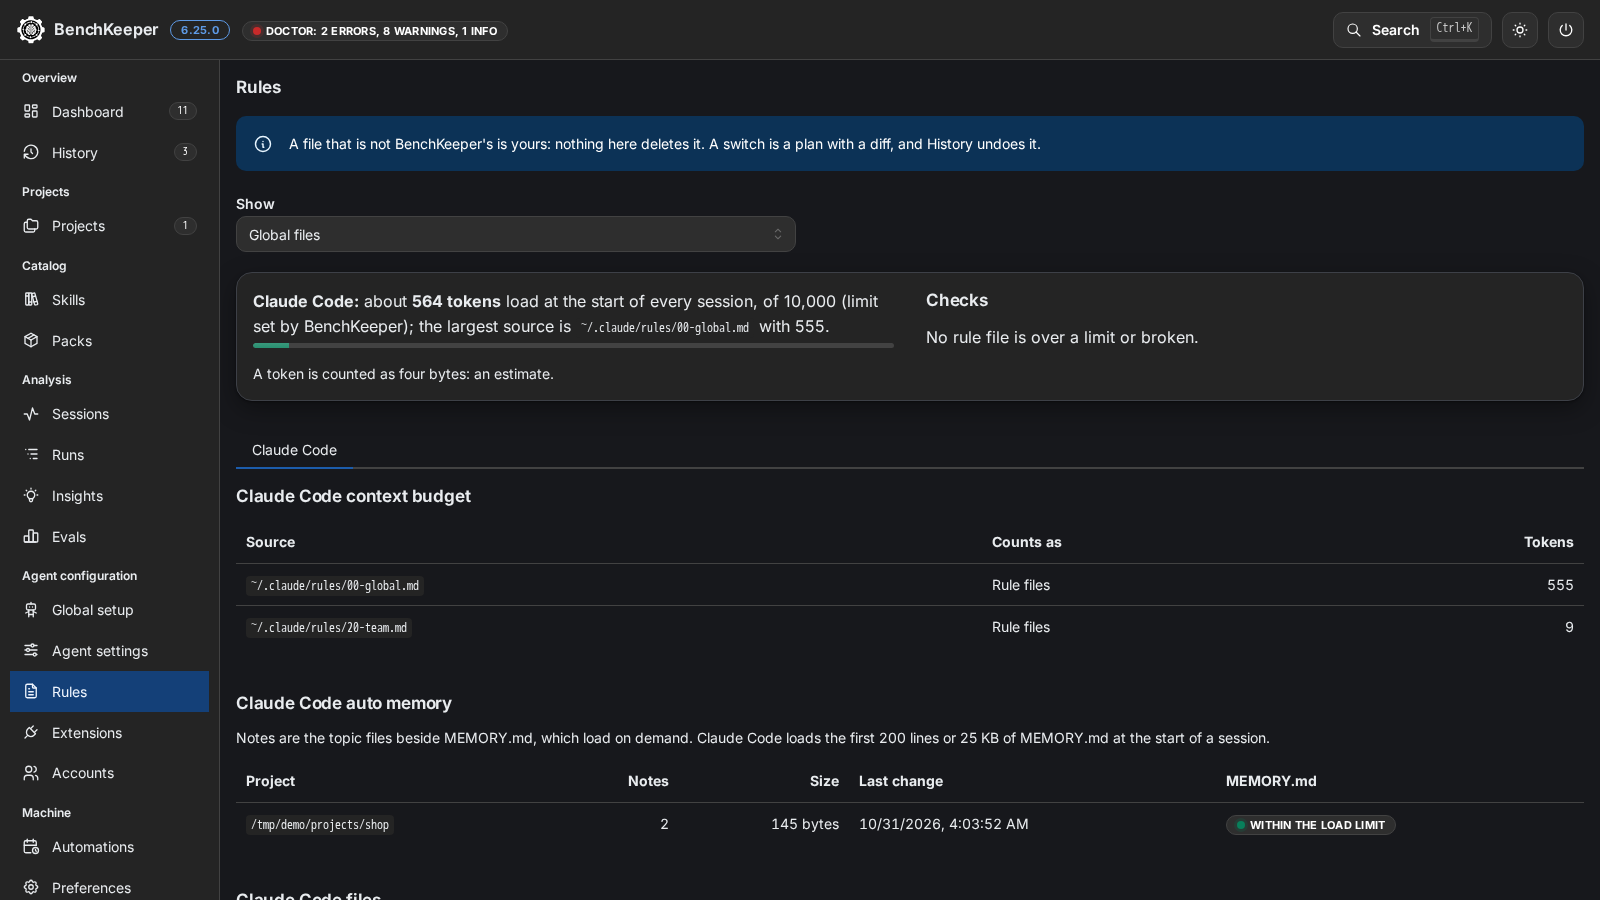
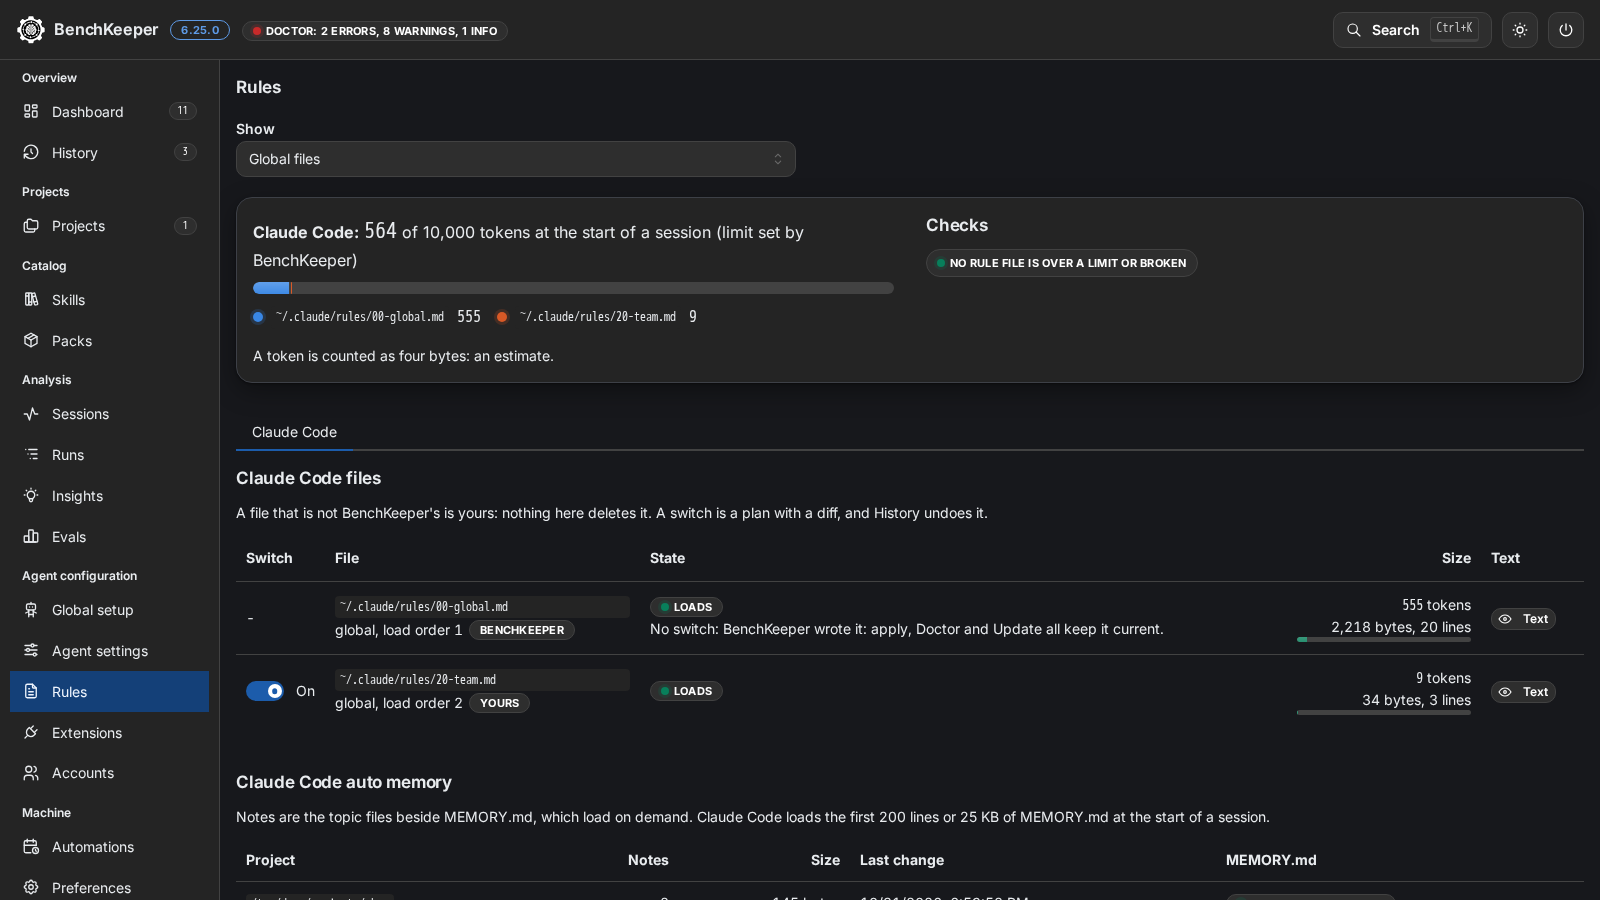
feat(app): show the Rules context budget as one bar above switchable file rows (#904)
* feat(app): show the Rules context budget as one bar above switchable file rows

The Rules page opens with one panel: the token count against the limit, one bar split by source (the five largest, then the rest), a legend, and the Checks result as a chip. It replaces the budget paragraph, the context budget table and the info banner. Each file is a row with its switch, path, load state and a token bar; the auto memory table moves below the files. Page height at 1280 px: 1390 px before, 1136 px after; at 390 px: 1650 px before, 1428 px after.

* fix(app): keep the budget bar's ARIA value in range and say how much of a Codex source list may not load

* fix(app): keep the single bar and hide the legend when an agent has no sources

diff --git a/app/ui/rules.jsx b/app/ui/rules.jsx
@@ -7,13 +7,44 @@ import { when } from './run.jsx';
 import { Dot, Loading, Note, icon, useApi } from './shell.jsx';
 
 const GLOBAL = 'global';
-const KINDS = { rules: 'Rule files', imports: 'Imports', skills: 'Skill descriptions', memory: 'Auto memory' };
 const LOAD = { always: ['teal', 'loads'], 'path-scoped': ['blue', 'loads for matching files'], off: ['gray', 'off'], shadowed: ['yellow', 'not read'] };
 const number = (n) => n.toLocaleString('en-US');
 
-// A value against its limit, with who sets the limit.
-const Limit = ({ label, value, max, unit, by }) => (
-  <Progress size="sm" value={Math.min(100, (value / max) * 100)} color={value > max ? 'red' : 'teal'} aria-label={`${label}: ${number(value)} of ${number(max)} ${unit}, limit set by ${by}`} />
+// The five largest sources of a budget and the rest as one, each with the color of its segment (the board's series).
+const SERIES = ['s1', 's2', 's3', 's4', 's5'];
+const partsOf = (items) => {
+  const sorted = items.filter((i) => i.tokens > 0).sort((a, b) => b.tokens - a.tokens);
+  const top = sorted.slice(0, SERIES.length).map((i, n) => ({ label: i.label, tokens: i.tokens, color: `var(--bk-${SERIES[n]})` }));
+  const rest = sorted.slice(SERIES.length);
+  return rest.length ? [...top, { label: `${rest.length} more sources`, tokens: rest.reduce((n, i) => n + i.tokens, 0), color: 'var(--bk-other)' }] : top;
+};
+
+// A value against its limit, with who sets the limit; with parts, one segment per source and a tick at the limit when it is passed.
+const Limit = ({ label, value, max, unit, by, parts }) => {
+  const name = `${label}: ${number(value)} of ${number(max)} ${unit}, limit set by ${by}`;
+  if (!parts) return <Progress size="sm" value={Math.min(100, (value / max) * 100)} color={value > max ? 'red' : 'teal'} aria-label={name} />;
+  const scale = Math.max(max, parts.reduce((n, p) => n + p.tokens, 0));
+  return (
+    <Progress.Root size="lg" role="progressbar" aria-label={name} aria-valuemin={0} aria-valuemax={max} aria-valuenow={Math.min(value, max)} aria-valuetext={`${number(value)} of ${number(max)} ${unit}`} styles={{ root: { gap: 2 } }}>
+      {parts.map((p) => <Progress.Section key={p.label} value={(p.tokens / scale) * 100} color={p.color} withAria={false} />)}
+      {scale > max && <span aria-hidden style={{ position: 'absolute', top: 0, bottom: 0, left: `${(max / scale) * 100}%`, width: 2, background: 'var(--bk-ink)' }} />}
+    </Progress.Root>
+  );
+};
+
+// What each segment of the bar is, largest first.
+const Legend = ({ parts, name }) => (
+  <List listStyleType="none" aria-label={`${name} sources`} styles={{ root: { display: 'flex', flexWrap: 'wrap', gap: '4px 16px' } }}>
+    {parts.map((p) => (
+      <List.Item key={p.label}>
+        <Group gap={8} wrap="nowrap">
+          <span aria-hidden className="bk-dot" style={{ display: 'inline-block', width: 10, height: 10, borderRadius: '50%', background: 'currentColor', color: p.color, flex: 'none' }} />
+          <Code style={{ overflowWrap: 'anywhere' }}>{p.label}</Code>
+          <span className="bk-num">{number(p.tokens)}</span>
+        </Group>
+      </List.Item>
+    ))}
+  </List>
 );
 
 // A switch request: the plan comes back through onPlan, a refusal shows as an error.
@@ -38,7 +69,7 @@ function useSwitch(dir, onPlan) {
 // locked: an apply runs, and a new plan would drop its view.
 function Findings({ findings, dir, onPlan, locked }) {
   const { busy, error, toggle } = useSwitch(dir, onPlan);
-  if (!findings.length) return <Text>No rule file is over a limit or broken.</Text>;
+  if (!findings.length) return <Badge variant="default" h="auto" py={4} styles={{ label: { whiteSpace: 'normal' } }} leftSection={<Dot color="teal" />}>No rule file is over a limit or broken</Badge>;
   return (
     <Stack gap="sm">
       {error && <Note color="red" title="Not planned">{error}</Note>}
@@ -139,19 +170,26 @@ function Preview({ row, dir, onClose, onSaved }) {
   );
 }
 
-// The top strip: per agent what loads at the start of every session against BenchKeeper's limit and the largest source,
-// beside the checks on a wide screen.
+// The top strip: per agent what loads at the start of every session against BenchKeeper's limit, as one bar split by source
+// with its legend, beside the checks on a wide screen.
 const Summary = ({ agents, children }) => (
   <Paper withBorder p="md" component="section" aria-label="Summary">
     <SimpleGrid cols={{ base: 1, lg: 2 }} spacing="xl">
       <Stack gap="md">
-        {agents.map(({ id, name, budget: { total, largest, over, threshold, limits: [start] } }) => (
-          <Stack key={id} gap={4}>
-            <Text><Text span fw={700}>{name}:</Text> about <Text span fw={700}>{number(total)} tokens</Text> load at the start of every session, of {number(start.max)} (limit set by {start.by}){largest ? <>; the largest source is <Code>{largest.label}</Code> with {number(largest.tokens)}</> : null}.</Text>
-            <Limit {...start} />
-            {over && <Note color="yellow">More than {number(threshold)} tokens (BenchKeeper's own limit, not the agent's): every turn pays for them. Turn off a file, split a long one into path-scoped rules, or shorten the largest source.</Note>}
-          </Stack>
-        ))}
+        {agents.map(({ id, name, budget: { total, items, over, threshold, limits: [start] } }) => {
+          const parts = partsOf(items);
+          // Codex counts only what fits its size limit; the sources stay as found.
+          const unloaded = items.reduce((n, i) => n + i.tokens, 0) - total;
+          return (
+            <Stack key={id} gap="xs">
+              <Text><Text span fw={700}>{name}:</Text> <Text span fw={700} fz={22} className="bk-num">{number(total)}</Text> of {number(start.max)} tokens at the start of a session (limit set by {start.by})</Text>
+              <Limit {...start} parts={parts.length ? parts : undefined} />
+              {parts.length > 0 && <Legend parts={parts} name={name} />}
+              {unloaded > 0 && <Text size="sm">About {number(unloaded)} tokens of these sources may not load: {name} stops adding files at its size limit.</Text>}
+              {over && <Note color="yellow">More than {number(threshold)} tokens (BenchKeeper's own limit, not the agent's): every turn pays for them. Turn off a file, split a long one into path-scoped rules, or shorten the largest source.</Note>}
+            </Stack>
+          );
+        })}
         <Text size="sm">A token is counted as four bytes: an estimate.</Text>
       </Stack>
       {children}
@@ -159,7 +197,8 @@ const Summary = ({ agents, children }) => (
   </Paper>
 );
 
-// The rest of an agent's budget: the other limits, what loads on demand and the tokens per source.
+// The rest of an agent's budget: the other limits and what loads on demand; the sources are the bar and the file rows.
+const hasBudget = (b) => b.onDemand > 0 || b.notes.length > 0 || b.limits.length > 1;
 function Budget({ budget }) {
   return (
     <Stack gap="xs">
@@ -171,14 +210,6 @@ function Budget({ budget }) {
           <Limit {...l} />
         </Stack>
       ))}
-      <Table.ScrollContainer minWidth={480} scrollAreaProps={{ viewportProps: { tabIndex: 0, role: 'region', 'aria-label': 'Context budget, scrollable' } }}>
-        <Table aria-label="Context budget" verticalSpacing="xs">
-          <Table.Thead><Table.Tr><Table.Th>Source</Table.Th><Table.Th>Counts as</Table.Th><Table.Th ta="right">Tokens</Table.Th></Table.Tr></Table.Thead>
-          <Table.Tbody>
-            {budget.items.map((i) => <Table.Tr key={`${i.kind}-${i.label}`}><Table.Td><Code>{i.label}</Code></Table.Td><Table.Td>{KINDS[i.kind]}</Table.Td><Table.Td ta="right">{number(i.tokens)}</Table.Td></Table.Tr>)}
-          </Table.Tbody>
-        </Table>
-      </Table.ScrollContainer>
     </Stack>
   );
 }
@@ -211,26 +242,28 @@ function Files({ agent, dir, limit, onPlan, onPreview, pending, onClear, locked 
   return (
     <Stack gap="sm">
       {error && <Note color="red" title="Not planned">{error}</Note>}
-      <Table.ScrollContainer minWidth={760} scrollAreaProps={{ viewportProps: { tabIndex: 0, role: 'region', 'aria-label': `${agent.name} instruction files, scrollable` } }}>
+      <Text size="sm">A file that is not BenchKeeper's is yours: nothing here deletes it. A switch is a plan with a diff, and History undoes it.</Text>
+      <Table.ScrollContainer minWidth={700} scrollAreaProps={{ viewportProps: { tabIndex: 0, role: 'region', 'aria-label': `${agent.name} instruction files, scrollable` } }}>
         <Table aria-label={`${agent.name} instruction files`} verticalSpacing="sm">
-          <Table.Thead><Table.Tr><Table.Th>Load order</Table.Th><Table.Th>File</Table.Th><Table.Th>Owner</Table.Th><Table.Th ta="right">Size</Table.Th><Table.Th>State</Table.Th><Table.Th>Switch</Table.Th></Table.Tr></Table.Thead>
+          <Table.Thead><Table.Tr><Table.Th>Switch</Table.Th><Table.Th>File</Table.Th><Table.Th>State</Table.Th><Table.Th ta="right">Size</Table.Th><Table.Th>Text</Table.Th></Table.Tr></Table.Thead>
           <Table.Tbody>
             {agent.rows.map((r) => { const wait = pending?.row.path === r.path, off = locked || busy === r.path; return (
               <Table.Tr key={r.path}>
-                <Table.Td>{r.order ?? '-'}</Table.Td>
-                <Table.Td><Stack gap={2}><Code style={{ overflowWrap: 'anywhere' }}>{r.shown}</Code><Text size="sm">{r.scope}</Text></Stack></Table.Td>
-                <Table.Td><Badge variant="default" miw="max-content">{r.owner}</Badge></Table.Td>
-                <Table.Td ta="right">{number(r.tokens)} tokens<Text size="sm">{number(r.bytes)} bytes{r.lines ? `, ${r.lines} lines` : ''}</Text><Limit label={r.shown} value={r.tokens} max={limit} unit="tokens" by="BenchKeeper" /></Table.Td>
-                <Table.Td><Stack gap={2}><Loads row={r} />{r.by && <Text size="sm">{r.by}</Text>}</Stack></Table.Td>
-                <Table.Td miw={220}>
-                  <Group gap="xs" wrap="nowrap" align="flex-start">
-                    {r.switch.by
-                      ? <PlanSwitch name={`Load ${r.shown} in ${agent.name}`} hideName on={r.load !== 'off'} pending={wait ? pending : null} off={off}
-                        onAsk={(on) => toggle(agent.id, r, on, agent.name)} onClear={onClear} />
-                      : <Text size="sm">No switch: {r.switch.why}.</Text>}
-                    <Button size="compact-xs" variant="default" leftSection={icon(IconEye)} aria-label={`Show text of ${r.shown}`} onClick={() => onPreview(r)}>Text</Button>
-                  </Group>
+                <Table.Td w={80}>
+                  {r.switch.by
+                    ? <PlanSwitch name={`Load ${r.shown} in ${agent.name}`} hideName on={r.load !== 'off'} pending={wait ? pending : null} off={off}
+                      onAsk={(on) => toggle(agent.id, r, on, agent.name)} onClear={onClear} />
+                    : '-'}
                 </Table.Td>
+                <Table.Td>
+                  <Stack gap={2}>
+                    <Code style={{ overflowWrap: 'anywhere' }}>{r.shown}</Code>
+                    <Group gap={6}><Text size="sm">{r.scope}{r.order != null ? `, load order ${r.order}` : ''}</Text><Badge variant="default" miw="max-content">{r.owner}</Badge></Group>
+                  </Stack>
+                </Table.Td>
+                <Table.Td><Stack gap={2}><Loads row={r} />{r.by && <Text size="sm">{r.by}</Text>}{!r.switch.by && <Text size="sm">No switch: {r.switch.why}.</Text>}</Stack></Table.Td>
+                <Table.Td ta="right"><span className="bk-num">{number(r.tokens)}</span> tokens<Text size="sm">{number(r.bytes)} bytes{r.lines ? `, ${r.lines} lines` : ''}</Text><Limit label={r.shown} value={r.tokens} max={limit} unit="tokens" by="BenchKeeper" /></Table.Td>
+                <Table.Td><Button size="compact-xs" variant="default" leftSection={icon(IconEye)} aria-label={`Show text of ${r.shown}`} onClick={() => onPreview(r)}>Text</Button></Table.Td>
               </Table.Tr>
             ); })}
           </Table.Tbody>
@@ -257,7 +290,6 @@ export function Rules({ overview, params, refresh, project }) {
   const onPlan = (p) => { if (p.dir === shown.current && idle()) setPending(p); };
   return (
     <Stack gap="lg">
-      <Note>A file that is not BenchKeeper's is yours: nothing here deletes it. A switch is a plan with a diff, and History undoes it.</Note>
       {!project && <Select label="Show" data={[{ value: GLOBAL, label: 'Global files' }, ...projects.map((p) => ({ value: p.path, label: p.name ? `${p.name} (${p.path})` : p.path }))]} value={dir} onChange={choose} readOnly={running} aria-disabled={running || undefined} allowDeselect={false} comboboxProps={{ withinPortal: false }} maw={560} />}
       <Loading state={state} label="instruction files">
         {(data) => (
@@ -269,7 +301,10 @@ export function Rules({ overview, params, refresh, project }) {
                 {data.agents.map((a) => (
                   <Tabs.Panel key={a.id} value={a.id} pt="md">
                     <Stack gap="xl">
-                      <Section title={`${a.name} context budget`}><Budget budget={a.budget} /></Section>
+                      {hasBudget(a.budget) && <Section title={`${a.name} context budget`}><Budget budget={a.budget} /></Section>}
+                      <Section title={`${a.name} files${chosen ? ' for this project' : ''}`}>
+                        <Files agent={a} dir={chosen} limit={data.limit} onPlan={onPlan} onPreview={setPreview} pending={pending && !pending.done ? pending : null} onClear={() => setPending(null)} locked={running} />
+                      </Section>
                       {a.memory?.folders.length > 0 && (
                         <Section title={`${a.name} auto memory`}>
                           <Text size="sm">{a.memory.folders.some((m) => m.enabled)
@@ -278,9 +313,6 @@ export function Rules({ overview, params, refresh, project }) {
                           <Memory memory={a.memory} />
                         </Section>
                       )}
-                      <Section title={`${a.name} files${chosen ? ' for this project' : ''}`}>
-                        <Files agent={a} dir={chosen} limit={data.limit} onPlan={onPlan} onPreview={setPreview} pending={pending && !pending.done ? pending : null} onClear={() => setPending(null)} locked={running} />
-                      </Section>
                     </Stack>
                   </Tabs.Panel>
                 ))}
